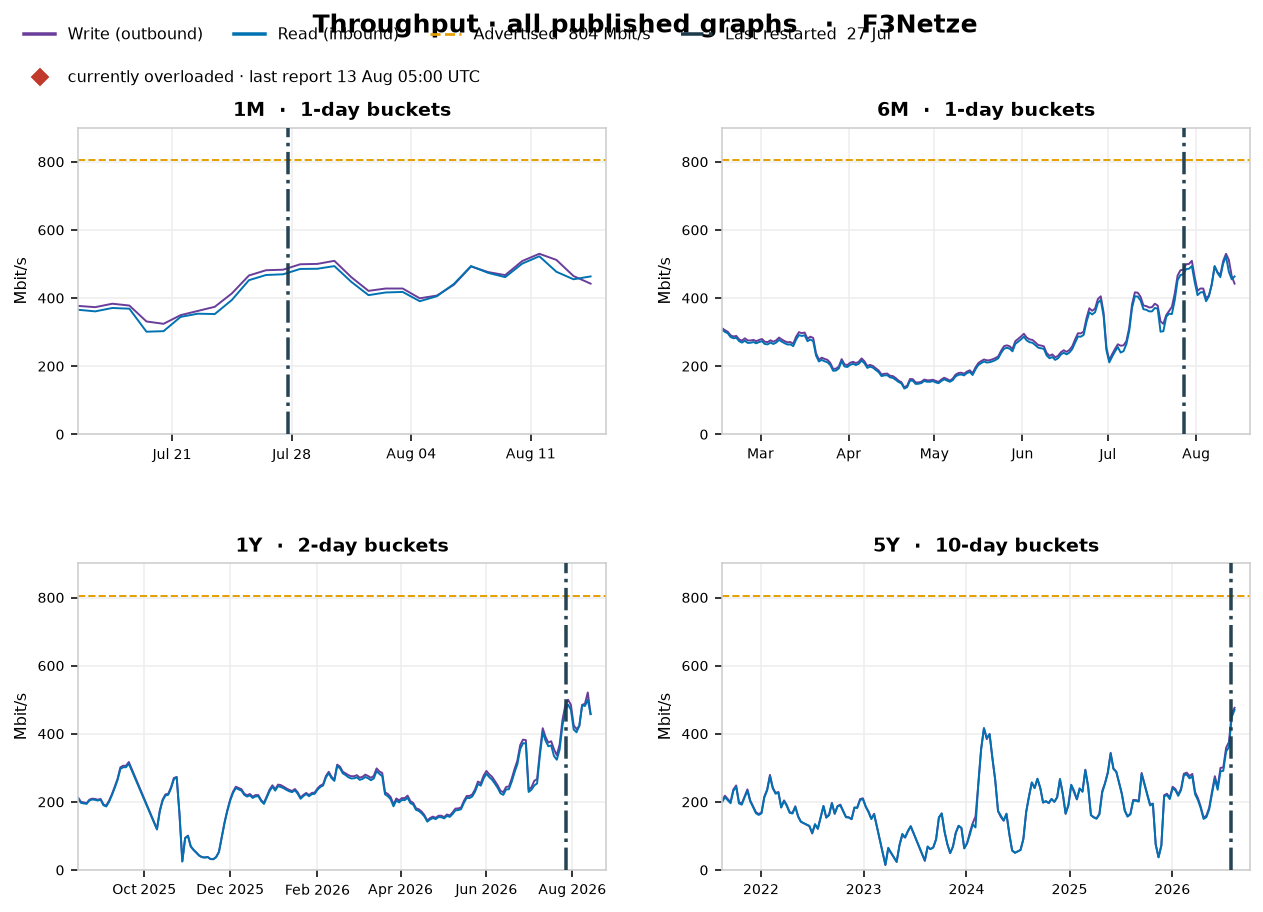
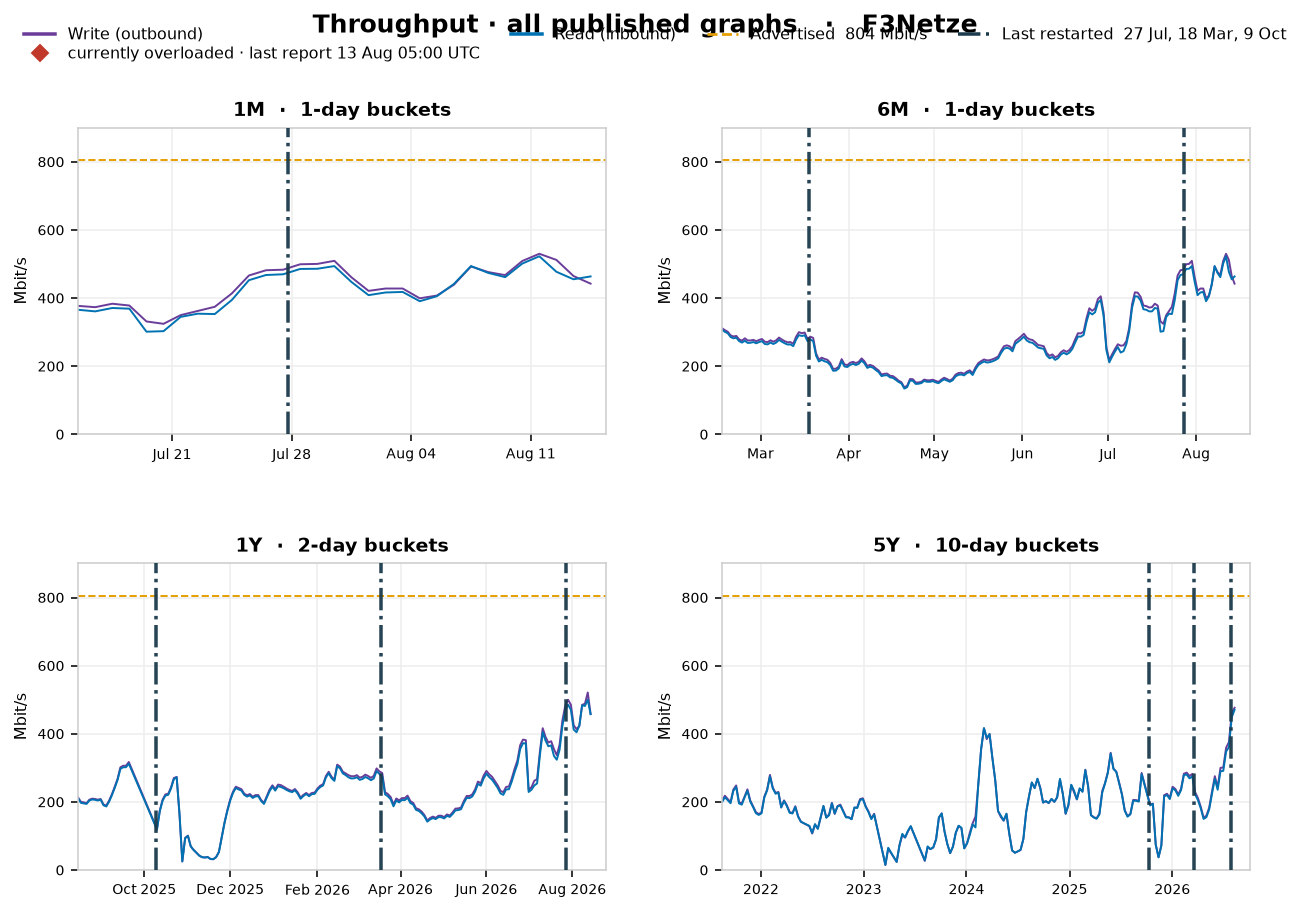
Tighten bandwidth legends and lock 1M hero plus spark swap
Overload wraps onto row 2 of the same legend box, write/read
percentiles sit on the left axis, and clicking a spark swaps it
with the hero. Off-scale Guard days (jeangrae 22-23 Jul) clip
to triangles instead of vanishing.

diff --git a/docs/features/planned/charts/mockups/relay_page_bw_opt3_history_f3.html b/docs/features/planned/charts/mockups/relay_page_bw_opt3_history_f3.html
@@ -81,7 +81,7 @@ code { font-size:12px; background:#eee; padding:1px 4px; border-radius:3px; }
   <p class="breadcrumb">Home &gt; Browse by Network &gt; AS205100 &gt; F3Netze</p>
   <div class="option-banner">
     <strong>Option 3 of 3 — History subsection after Network Participation</strong>
-    Chosen. Snapshot numbers stay together. History is a named subsection before “Bandwidth Values Explained”. Three period layouts below — pick one. Overload wraps onto a second legend line; the progressive-enhancement footnote is gone.
+    Chosen. Snapshot numbers stay together. History is 1M hero + sparks; click a spark to swap it with the hero. Overload sits on a second legend line, tight against Write/Read.
     Relay: <strong>F3Netze</strong> (f3netze.de)
     · overloaded.
   </div>
@@ -159,15 +159,13 @@ code { font-size:12px; background:#eee; padding:1px 4px; border-radius:3px; }
     </div>
         <h5 class="subsection-header" style="margin-top:16px;">History
           <span class="al-text-small-muted">(Onionoo write / read)</span></h5>
-        <div class="layout-label"><strong>Period layout 1 — pills (toggle 1M / 6M / 1Y / 5Y)</strong></div><div class="chart-wrap">
-      <img src="relay_bandwidth_periods_pills_f3.png" alt="Throughput history for F3Netze">
-      <p class="chart-note">Default 1M. Omit a pill if Onionoo omitted the graph. A static site pre-renders each selected period.</p>
-    </div><div class="layout-label"><strong>Period layout 2 — equal 2×2 of every published graph</strong></div><div class="chart-wrap">
-      <img src="relay_bandwidth_periods_equal_f3.png" alt="Throughput history for F3Netze">
-      <p class="chart-note">Same size, no click. Empty cell = not published, not 0.</p>
-    </div><div class="layout-label"><strong>Period layout 3 — 1M hero + 6M / 1Y / 5Y sparks</strong></div><div class="chart-wrap">
+        <div class="layout-label"><strong>Click a spark to swap it with the hero</strong></div><iframe src="relay_bandwidth_hero_sparks_swap_f3.html" title="Hero plus sparks click to swap" style="width:100%;height:780px;border:1px solid #dee2e6;border-radius:6px;background:#fff;"></iframe>
+        <div class="layout-label"><strong>Default — 1M hero, 6M / 1Y / 5Y sparks</strong></div><div class="chart-wrap">
       <img src="relay_bandwidth_periods_hero_sparks_f3.png" alt="Throughput history for F3Netze">
-      <p class="chart-note">1M stays large (finest buckets). Longer graphs are context underneath. Omit a spark if unpublished.</p>
+      <p class="chart-note">Click a spark (interactive frame above) to promote it. 1M stays the default because it has the finest buckets.</p>
+    </div><div class="layout-label"><strong>After clicking the 6M spark</strong></div><div class="chart-wrap">
+      <img src="relay_bandwidth_periods_hero_sparks_f3_6m.png" alt="Throughput history for F3Netze">
+      <p class="chart-note">6M is now the hero; 1M moved into the spark row. Onionoo only publishes last_restarted (27 Jul). 18 Mar and 9 Oct on longer graphs are a mock of a multi-restart archive — one legend, comma-delimited dates, one vline each.</p>
     </div>
         <div class="explain">
           <strong>Bandwidth Values Explained:</strong><br>

diff --git a/docs/features/planned/charts/mockups/relay_bandwidth_hero_sparks_swap_f3.html b/docs/features/planned/charts/mockups/relay_bandwidth_hero_sparks_swap_f3.html
@@ -1,0 +1,54 @@
+<!DOCTYPE html>
+<html lang="en">
+<head>
+  <meta charset="utf-8">
+  <meta name="viewport" content="width=device-width, initial-scale=1">
+  <title>F3Netze — hero + sparks swap</title>
+  <style>
+    .hs-wrap { font-family: "Helvetica Neue", Helvetica, Arial, sans-serif; }
+    .hs-note { font-size:12px; color:#555; margin:0 0 8px; }
+    .hs-hero img { width:100%; height:auto; display:block; }
+    .hs-sparks { display:flex; gap:10px; margin-top:8px; }
+    .hs-sparks button {
+      flex:1; padding:4px; border:1px solid #dee2e6; background:#fff;
+      cursor:pointer; border-radius:6px;
+    }
+    .hs-sparks button:hover { border-color:#337ab7; }
+    .hs-sparks button img { width:100%; height:auto; display:block; }
+    .hs-sparks button span {
+      display:block; font-size:11px; color:#1b3a4b; margin-top:4px;
+    }
+  </style>
+</head>
+<body>
+<div class="hs-wrap">
+  <p class="hs-note">Click a spark to swap it with the hero. The previous
+  hero moves into the spark row. Unpublished Onionoo graphs are omitted.</p>
+  <div class="hs-hero"><img id="hs-hero-img" alt="Hero throughput"></div>
+  <div class="hs-sparks" id="hs-sparks"></div>
+</div>
+<script>
+const KEYS = ["1_month", "6_months", "1_year", "5_years"];
+const SHORT = {"1_month": "1M", "6_months": "6M", "1_year": "1Y", "5_years": "5Y"};
+const HERO = {"1_month": "relay_bandwidth_hero_f3_1_month.png", "6_months": "relay_bandwidth_hero_f3_6_months.png", "1_year": "relay_bandwidth_hero_f3_1_year.png", "5_years": "relay_bandwidth_hero_f3_5_years.png"};
+const SPARK = {"1_month": "relay_bandwidth_spark_f3_1_month.png", "6_months": "relay_bandwidth_spark_f3_6_months.png", "1_year": "relay_bandwidth_spark_f3_1_year.png", "5_years": "relay_bandwidth_spark_f3_5_years.png"};
+let hero = KEYS.includes("1_month") ? "1_month" : KEYS[0];
+function render() {
+  document.getElementById("hs-hero-img").src = HERO[hero];
+  const row = document.getElementById("hs-sparks");
+  row.innerHTML = KEYS.filter(k => k !== hero).map(k =>
+    '<button type="button" data-key="'+k+'">' +
+    '<img src="'+SPARK[k]+'" alt="'+SHORT[k]+' spark">' +
+    '<span>'+SHORT[k]+' · click to swap</span></button>'
+  ).join("");
+}
+document.getElementById("hs-sparks").addEventListener("click", (e) => {
+  const btn = e.target.closest("button");
+  if (!btn) return;
+  hero = btn.getAttribute("data-key");
+  render();
+});
+render();
+</script>
+</body>
+</html>

diff --git a/docs/features/planned/charts/generate_relay_page_chart_variations.py b/docs/features/planned/charts/generate_relay_page_chart_variations.py
@@ -970,6 +970,29 @@ def throughput_legend_handles(advertised_mbit, events, overload_status=None,
     return handles
 
 
+def _blank_legend_handle():
+    return Line2D([], [], linestyle="None", marker="None", color="none", label=" ")
+
+
+def legend_handles_row_major(rows):
+    """Reorder so matplotlib's column-major legend matches these rows.
+
+    Matplotlib 3.x still fills legends column-first. Two separate legend
+    boxes left a large shelf between Write/Read and overload. One box
+    with labelspacing ≈ half the default is the 50% tighter wrap.
+    """
+    rows = [list(r) for r in rows if r]
+    if not rows:
+        return [], 1
+    ncol = max(len(r) for r in rows)
+    padded = [r + [_blank_legend_handle()] * (ncol - len(r)) for r in rows]
+    ordered = []
+    for col in range(ncol):
+        for row in padded:
+            ordered.append(row[col])
+    return ordered, ncol
+
+
 def place_legend_above_axes(ax, handles, fontsize=8.5, ncol=None,
                             wrap_last=False):
     """Legend in the empty band above advertised / data_max.
@@ -978,7 +1001,7 @@ def place_legend_above_axes(ax, handles, fontsize=8.5, ncol=None,
     left on a tight ylim — that is what sat the legend on the series.
 
     When overload is in the legend, wrap that last item onto a second
-    row (ncol = n-1). A single 5-item row is wider than the axes;
+    row of the same box. A single 5-item row is wider than the axes;
     bbox=tight then stretches the figure to the right and leaves a
     blank shelf under the legend.
     """
@@ -991,27 +1014,22 @@ def place_legend_above_axes(ax, handles, fontsize=8.5, ncol=None,
         edgecolor="#eeeeee",
         facecolor="white",
         framealpha=0.96,
-        borderaxespad=0.30,
+        borderaxespad=0.25,
         columnspacing=1.0,
         handlelength=1.6,
+        handletextpad=0.4,
     )
-    # Matplotlib fills column-first, so ncol=n-1 still parks the last
-    # handle on row 1. Two legends force overload onto its own line.
     if wrap_last and len(handles) > 1:
-        first = ax.legend(
-            handles=handles[:-1], loc="upper left",
-            ncol=min(len(handles) - 1, 4), **style,
-        )
-        ax.add_artist(first)
+        ordered, ncol = legend_handles_row_major([handles[:-1], handles[-1:]])
         ax.legend(
-            handles=handles[-1:], loc="upper left",
-            bbox_to_anchor=(0.0, 0.92), bbox_transform=ax.transAxes,
-            **style,
+            handles=ordered, loc="upper left", ncol=ncol,
+            labelspacing=0.22, **style,
         )
         return
     if ncol is None:
         ncol = min(len(handles), 4)
-    ax.legend(handles=handles, loc="upper left", ncol=ncol, **style)
+    ax.legend(handles=handles, loc="upper left", ncol=ncol,
+              labelspacing=0.15, **style)
 
 
 def apply_throughput_title(ax, title, overload_status, overload_mode):
@@ -1033,7 +1051,10 @@ def throughput_ylim(ax, read_m, write_m, advertised_mbit, legend_rows=1):
     """Leave a legend shelf above advertised (or data, if higher)."""
     data_max = max(list(write_m) + list(read_m) + [0.0])
     ceiling = max(advertised_mbit or 0.0, data_max) or 1.0
-    extra = 1.42 if legend_rows >= 2 else 1.26
+    # One compact two-row box needs less shelf than the old stacked
+    # legends (1.42). Keep a little more than a single row so the
+    # diamond does not sit on the advertised line.
+    extra = 1.28 if legend_rows >= 2 else 1.26
     ax.set_ylim(0, ceiling * extra)
 
 
@@ -1314,7 +1335,7 @@ def bandwidth_a_dual_line(ts, read_m, write_m, advertised_mbit, events, publishe
                           period_key="1_month"):
     bands = bands or (overlays or {}).get("bands")
     wrap_last = overload_mode == "legend" and bool(overload_status)
-    hspace = 0.14 if page_ready else 0.16
+    hspace = 0.10 if page_ready else 0.16
     fig, (ax, axr) = plt.subplots(
         2, 1, figsize=(10.8, 6.5 if page_ready else 7.2), sharex=True,
         gridspec_kw={"height_ratios": [3.2, 1.35], "hspace": hspace},
@@ -1539,17 +1560,16 @@ def bandwidth_periods_equal(periods, advertised_mbit, events, overload_status,
     handles = throughput_legend_handles(
         advertised_mbit, events, overload_status, overload_in_legend=True,
     )
-    main, extra = (handles[:-1], handles[-1:]) if (
-        overload_status and len(handles) > 1
-    ) else (handles, [])
-    fig.legend(
-        handles=main, loc="upper left", bbox_to_anchor=(0.08, 0.98),
-        ncol=min(len(main), 4), fontsize=8.0, frameon=False,
-    )
-    if extra:
+    if overload_status and len(handles) > 1:
+        ordered, ncol = legend_handles_row_major([handles[:-1], handles[-1:]])
         fig.legend(
-            handles=extra, loc="upper left", bbox_to_anchor=(0.08, 0.935),
-            ncol=1, fontsize=8.0, frameon=False,
+            handles=ordered, loc="upper left", bbox_to_anchor=(0.08, 0.98),
+            ncol=ncol, fontsize=8.0, frameon=False, labelspacing=0.22,
+        )
+    else:
+        fig.legend(
+            handles=handles, loc="upper left", bbox_to_anchor=(0.08, 0.98),
+            ncol=min(len(handles), 4), fontsize=8.0, frameon=False,
         )
     for i, key in enumerate(PERIOD_ORDER):
         ax = axes[i // 2][i % 2]
@@ -2181,7 +2201,7 @@ def build_ratio_overlays(details_relays, bw_by_fp, role, contact_substr=None,
     outliers = sum(1 for m in op_means if m > RATIO_HI)
     return {
         "role": role_daily,
-        "role_label": f"Peers {role} (network median, n={role_n})",
+        "role_label": f"Peers {role} (network median)",
         "operator": op_daily if op_n > 1 else {},
         "operator_label": operator_label or f"Operator Family (median, n={op_n})",
         "family_outliers": outliers,
@@ -2587,6 +2607,11 @@ def main():
     parser.add_argument("--bandwidth-all", default="/tmp/onionoo/bandwidth_all.json")
     parser.add_argument("--out", default=str(Path(__file__).resolve().parent / "mockups"))
     parser.add_argument("--artifacts", default="/opt/cursor/artifacts")
+    parser.add_argument(
+        "--only", choices=("all", "bandwidth", "uptime", "flags"),
+        default="all",
+        help="Skip unrelated mockup families when iterating on one chart.",
+    )
     args = parser.parse_args()
 
     style()
@@ -2652,66 +2677,75 @@ def main():
     overlays["bands"] = bands_for_flags(f3.get("flags"))
     out = Path(args.out)
     art = Path(args.artifacts)
-    jobs = [
-        ("relay_uptime_a_annotated_line.png", uptime_a_annotated_line, (ts, pct, published)),
-        ("relay_uptime_b_area_threshold.png", uptime_b_area_threshold, (ts, pct, published, extra)),
-        ("relay_uptime_c_heatmap.png", uptime_c_heatmap, (ts, pct, published, extra)),
-        ("relay_uptime_section_numbers.png", uptime_section_numbers, (ts, pct, published, extra)),
-        ("relay_uptime_b_two_clocks_th4r.png", uptime_b_two_clocks,
-         (ts, pct, published, extra["last_restarted"], "th4r")),
-        ("relay_uptime_b_two_clocks_f3.png", uptime_b_two_clocks,
-         (*f3_periods["1_month"], published, f3.get("last_restarted"), "F3Netze")),
-        ("relay_uptime_onionoo_info.png", uptime_onionoo_info, (published,)),
-        ("relay_uptime_periods_pills_th4r.png", uptime_periods_pills,
-         (th4r_periods, "1_month", "th4r", published,
-          "Question: how do we switch 1M / 6M / 1Y / 5Y on a static page? "
-          "CSS pills, one SVG visible. th4r has 1M/6M/1Y. Onionoo omitted "
-          "5_years (first seen Oct 2025) — no 0% tab. Default 1M. "
-          "C heatmap stays 1-month-only.")),
-        ("relay_uptime_periods_pills_f3_5y.png", uptime_periods_pills,
-         (f3_periods, "5_years", "F3Netze", published,
-          "Question: why include 5Y at all? F3Netze 1M is 99.2% (looks fine). "
-          "5Y average is 89% with real zeros. The long graph is the one that "
-          "changes the story. Same B encoding; only the series and bucket "
-          "size change.")),
-        ("relay_uptime_periods_pills_young.png", uptime_periods_pills,
-         (pirate_periods, "1_month", "PirateyMatey", published,
-          "Question: what if Onionoo only published 1_month? Show that pill "
-          "alone. 16 four-hour points (first seen 12 Aug) — say “not enough "
-          "history for 6M/1Y/5Y”, do not invent 0% periods. "
-          "Allium's count<30 → 0.0 trap must not become a chart.")),
-        ("relay_uptime_periods_multiples.png", uptime_periods_multiples,
-         (f3_periods, "F3Netze", published)),
-        ("relay_uptime_periods_hero_sparks.png", uptime_periods_hero_sparks,
-         (f3_periods, "F3Netze", published)),
-        ("relay_bandwidth_a_dual_line.png", bandwidth_a_dual_line,
-         (w_ts, read_m, write_m, advertised_mbit, events, published, overlays,
-          ov_status)),
-        ("relay_bandwidth_b_area_ratio.png", bandwidth_b_area_ratio,
-         (w_ts, read_m, write_m, advertised_mbit, events, published, overlays,
-          ov_status)),
-        ("relay_bandwidth_c_bars_advertised.png", bandwidth_c_bars_advertised,
-         (w_ts, read_m, write_m, advertised_mbit, events, published, ov_status)),
-        ("relay_flags_a_swimlane.png", flags_a_swimlane, (flag_core, published)),
-        ("relay_flags_b_overlay.png", flags_b_overlay, (flag_core, published)),
-        ("relay_flags_c_cause_effect.png", flags_c_cause_effect,
-         (flag_series, published, extra)),
-        ("relay_flags_d_episodes.png", flags_d_episodes,
-         (flag_series, published, extra)),
-        ("relay_flags_e_diverged_only.png", flags_e_diverged_only,
-         (flag_series, published, extra)),
-        ("relay_flags_f_status_story.png", flags_f_status_story,
-         (flag_series, published, extra)),
-    ]
+    jobs = []
+    if args.only in ("all", "uptime"):
+        jobs.extend([
+            ("relay_uptime_a_annotated_line.png", uptime_a_annotated_line, (ts, pct, published)),
+            ("relay_uptime_b_area_threshold.png", uptime_b_area_threshold, (ts, pct, published, extra)),
+            ("relay_uptime_c_heatmap.png", uptime_c_heatmap, (ts, pct, published, extra)),
+            ("relay_uptime_section_numbers.png", uptime_section_numbers, (ts, pct, published, extra)),
+            ("relay_uptime_b_two_clocks_th4r.png", uptime_b_two_clocks,
+             (ts, pct, published, extra["last_restarted"], "th4r")),
+            ("relay_uptime_b_two_clocks_f3.png", uptime_b_two_clocks,
+             (*f3_periods["1_month"], published, f3.get("last_restarted"), "F3Netze")),
+            ("relay_uptime_onionoo_info.png", uptime_onionoo_info, (published,)),
+            ("relay_uptime_periods_pills_th4r.png", uptime_periods_pills,
+             (th4r_periods, "1_month", "th4r", published,
+              "Question: how do we switch 1M / 6M / 1Y / 5Y on a static page? "
+              "CSS pills, one SVG visible. th4r has 1M/6M/1Y. Onionoo omitted "
+              "5_years (first seen Oct 2025) — no 0% tab. Default 1M. "
+              "C heatmap stays 1-month-only.")),
+            ("relay_uptime_periods_pills_f3_5y.png", uptime_periods_pills,
+             (f3_periods, "5_years", "F3Netze", published,
+              "Question: why include 5Y at all? F3Netze 1M is 99.2% (looks fine). "
+              "5Y average is 89% with real zeros. The long graph is the one that "
+              "changes the story. Same B encoding; only the series and bucket "
+              "size change.")),
+            ("relay_uptime_periods_pills_young.png", uptime_periods_pills,
+             (pirate_periods, "1_month", "PirateyMatey", published,
+              "Question: what if Onionoo only published 1_month? Show that pill "
+              "alone. 16 four-hour points (first seen 12 Aug) — say “not enough "
+              "history for 6M/1Y/5Y”, do not invent 0% periods. "
+              "Allium's count<30 → 0.0 trap must not become a chart.")),
+            ("relay_uptime_periods_multiples.png", uptime_periods_multiples,
+             (f3_periods, "F3Netze", published)),
+            ("relay_uptime_periods_hero_sparks.png", uptime_periods_hero_sparks,
+             (f3_periods, "F3Netze", published)),
+        ])
+    if args.only in ("all", "bandwidth"):
+        jobs.extend([
+            ("relay_bandwidth_a_dual_line.png", bandwidth_a_dual_line,
+             (w_ts, read_m, write_m, advertised_mbit, events, published, overlays,
+              ov_status)),
+            ("relay_bandwidth_b_area_ratio.png", bandwidth_b_area_ratio,
+             (w_ts, read_m, write_m, advertised_mbit, events, published, overlays,
+              ov_status)),
+            ("relay_bandwidth_c_bars_advertised.png", bandwidth_c_bars_advertised,
+             (w_ts, read_m, write_m, advertised_mbit, events, published, ov_status)),
+        ])
+    if args.only in ("all", "flags"):
+        jobs.extend([
+            ("relay_flags_a_swimlane.png", flags_a_swimlane, (flag_core, published)),
+            ("relay_flags_b_overlay.png", flags_b_overlay, (flag_core, published)),
+            ("relay_flags_c_cause_effect.png", flags_c_cause_effect,
+             (flag_series, published, extra)),
+            ("relay_flags_d_episodes.png", flags_d_episodes,
+             (flag_series, published, extra)),
+            ("relay_flags_e_diverged_only.png", flags_e_diverged_only,
+             (flag_series, published, extra)),
+            ("relay_flags_f_status_story.png", flags_f_status_story,
+             (flag_series, published, extra)),
+        ])
     for name, fn, fn_args in jobs:
         fn(*fn_args, [out / name, art / name])
         print("wrote", name)
 
-    write_page_layout_mockups(
-        det, bw_doc, Path(args.bandwidth_all), published, overlays,
-        w_ts, read_m, write_m, advertised_mbit, events, ov_status,
-        out, art,
-    )
+    if args.only in ("all", "bandwidth"):
+        write_page_layout_mockups(
+            det, bw_doc, Path(args.bandwidth_all), published, overlays,
+            w_ts, read_m, write_m, advertised_mbit, events, ov_status,
+            out, art,
+        )
 
 
 def plot_role_band_geometry(out_paths):

diff --git a/docs/features/planned/charts/relay-page-charts.md b/docs/features/planned/charts/relay-page-charts.md
@@ -428,12 +428,14 @@ chart is a new `h5`, tables untouched.
 | 2 After scalars | After Capacity / Measurement, before Network Participation | Title-right cue | Rejected |
 | **3 History** | After Network Participation, before Values Explained | Diamond in the legend, **wrapped to a second line** | **Ship this** |
 
-When overload is in the legend, that last item wraps onto row 2. Do not
-keep a one-row legend that is wider than the axes — `bbox=tight` then
-stretches the figure to the right and leaves a blank shelf under the
-legend. Drop the “Progressive enhancement: the tables stay if this SVG
-is missing” footnote under the chart; the tables are already on the
-page.
+When overload is in the legend, that last item wraps onto row 2 of the
+**same** legend box (Write / Read / Advertised / Last restarted, then
+the diamond). Two stacked boxes left a large gap; one box at half the
+default `labelspacing` is the tighter wrap. Do not keep a one-row
+legend that is wider than the axes — `bbox=tight` then stretches the
+figure to the right and leaves a blank shelf under the legend. Drop the
+“Progressive enhancement: the tables stay if this SVG is missing”
+footnote under the chart; the tables are already on the page.
 
 Page mockups (open the HTML):
 
